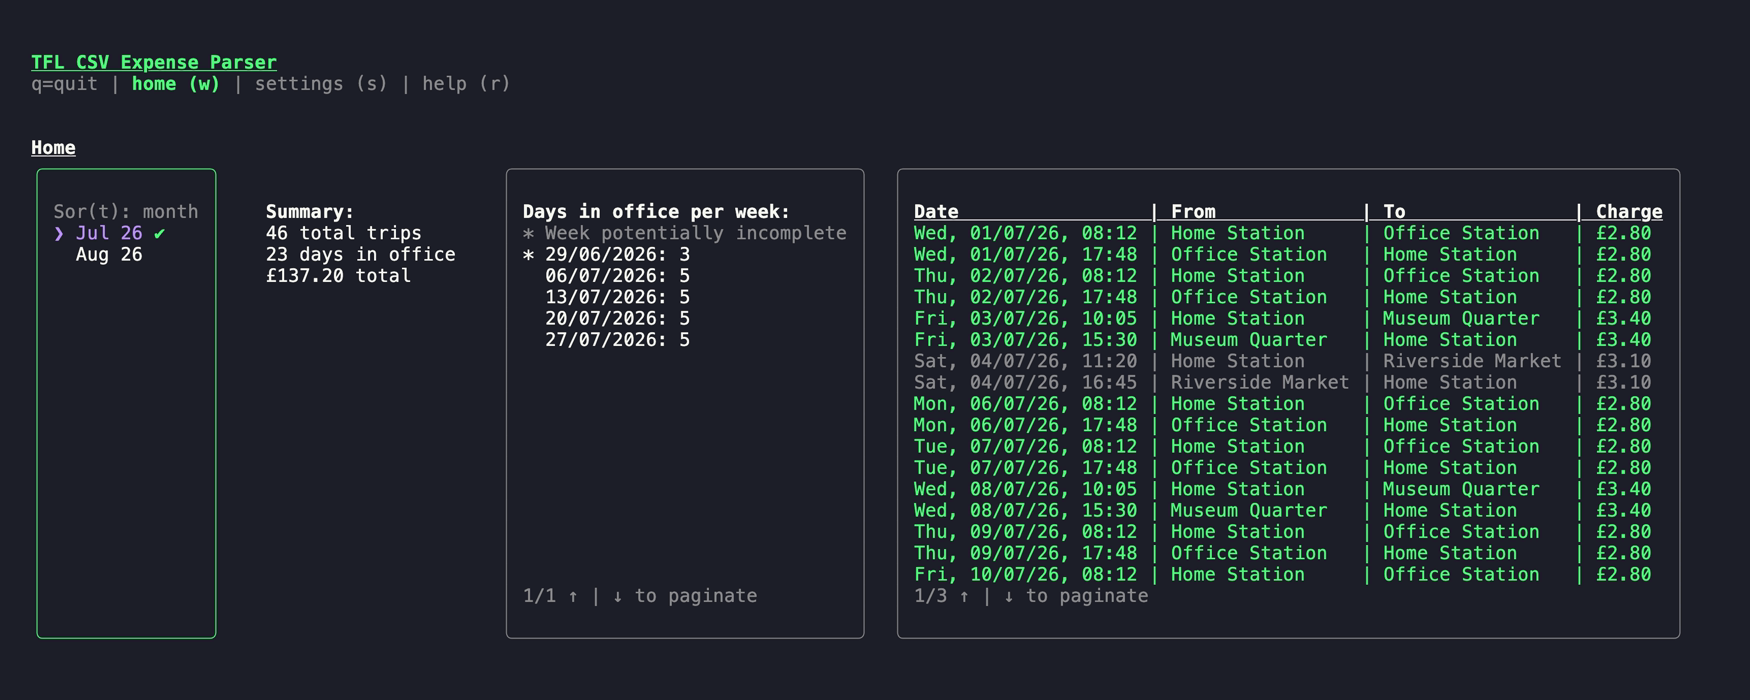
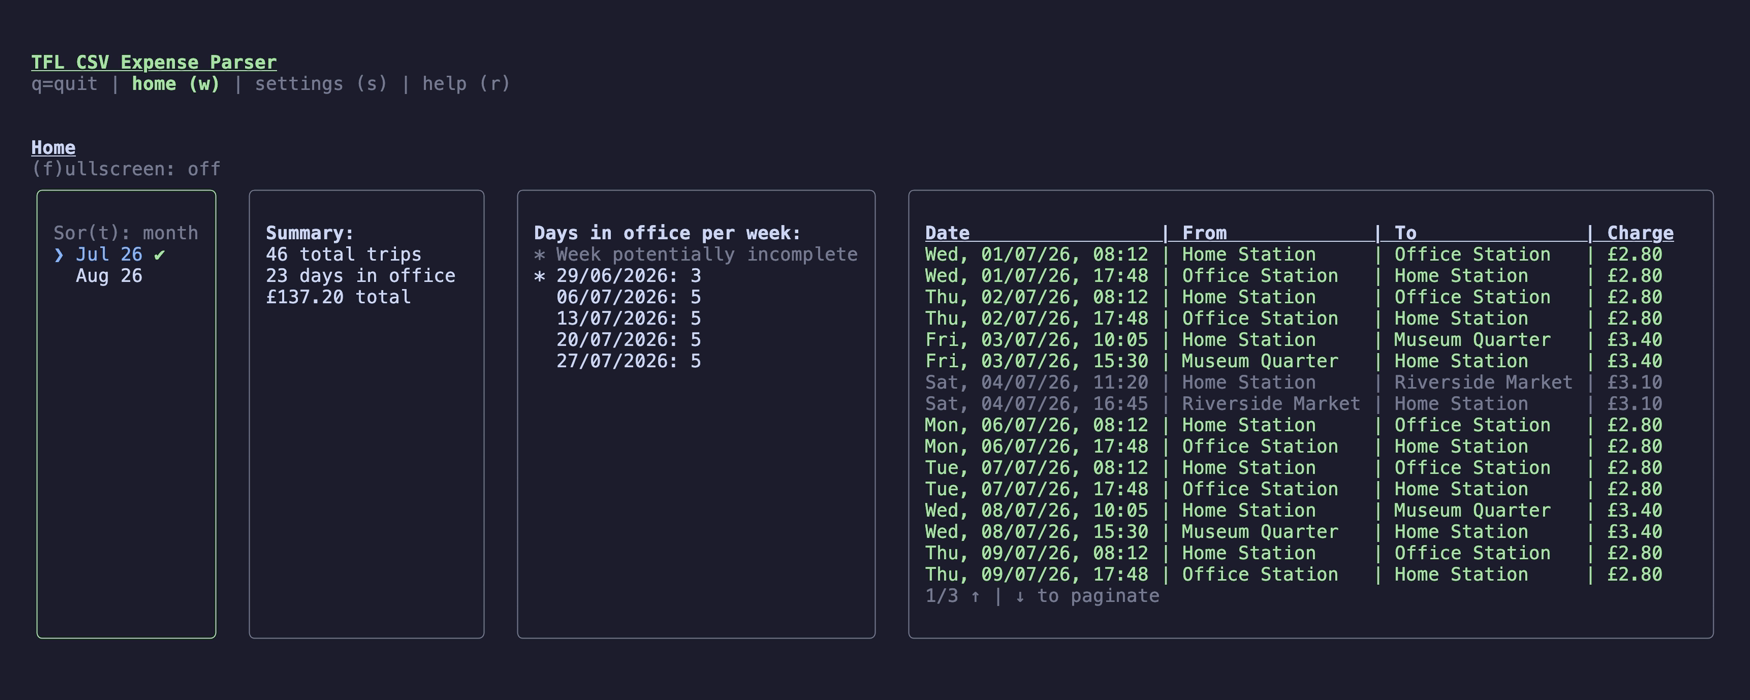
feat: update vhs theme, add fullscreen demo

diff --git a/README.md b/README.md
@@ -86,3 +86,8 @@ Travel a lot in a month? Look at all your journeys with ease.
 
 ![pagination](screenshot/pagination.gif)
 
+### Focus on one panel
+
+Don't let a small screen get in the way of doing your expenses. Expand your focuses panel with `f`.
+
+![fullscreen](screenshot/fullscreen.gif)
